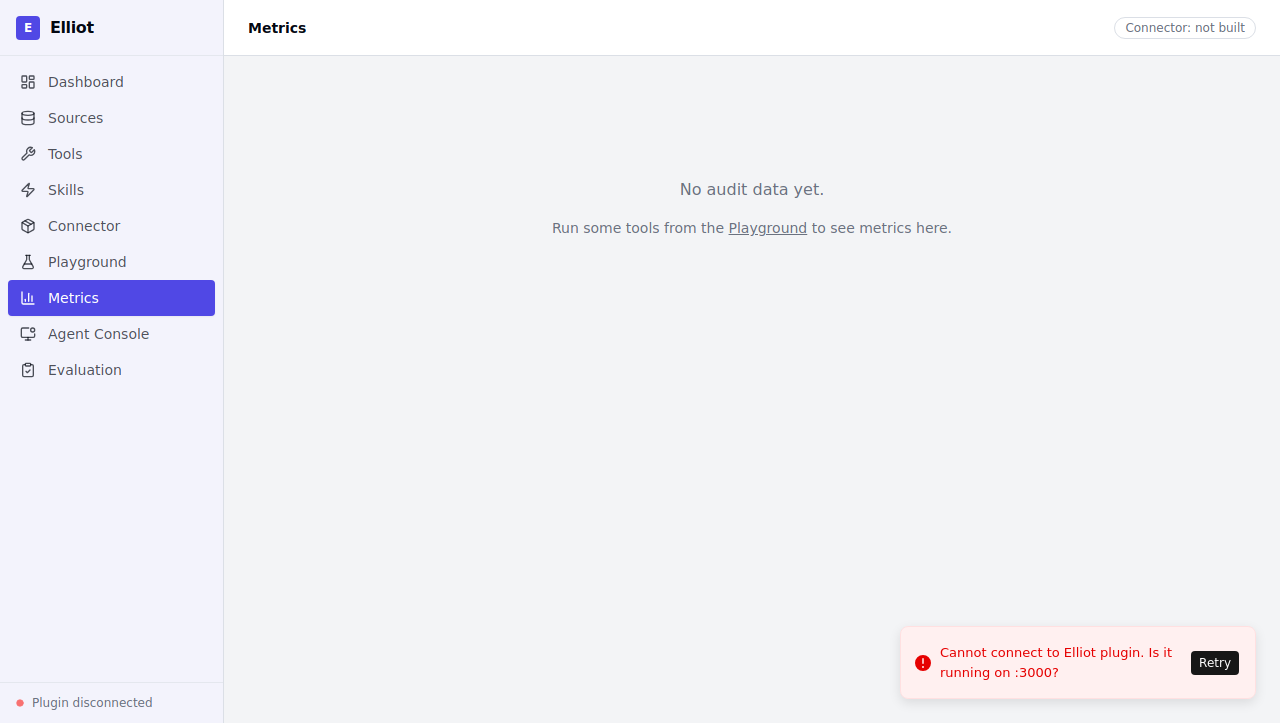
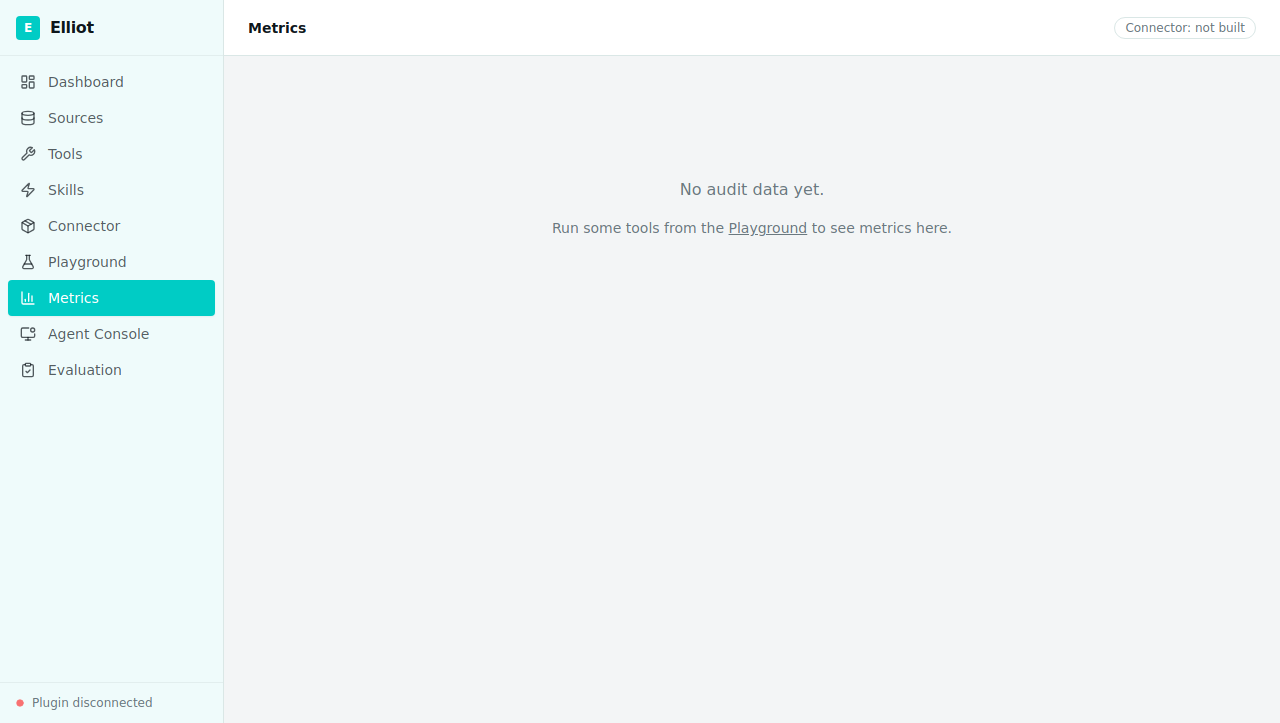
fix(studio): apply Elliot Teal brand color (#00cec8) and refresh screenshots
Replace indigo (243 75% 59%) with Elliot Teal (178 100% 40%) across all
CSS design tokens. Retake all 9 Studio screenshots to reflect the correct
brand color and current demo data state.

https://claude.ai/code/session_01Mtc241ya14kfZHy4ge2Dnv

Changed region(s): [[0.0, 0.3651, 0.1875, 0.4564], [0.7188, 0.8824, 0.9688, 0.9433], [0.0, 0.0, 0.0312, 0.0609]]

diff --git a/packages/studio/src/index.css b/packages/studio/src/index.css
@@ -5,40 +5,40 @@
 @layer base {
   :root {
     /* ── Elliot Design Tokens ─────────────────────────────────────────── */
-    /* Brand: Electric Indigo #4F46E5 */
+    /* Brand: Elliot Teal #00cec8 — HSL 178 100% 40% */
 
     --background: 0 0% 100%;
-    --foreground: 224 71% 4%;
+    --foreground: 200 30% 8%;
 
     --card: 0 0% 100%;
-    --card-foreground: 224 71% 4%;
+    --card-foreground: 200 30% 8%;
 
     --popover: 0 0% 100%;
-    --popover-foreground: 224 71% 4%;
+    --popover-foreground: 200 30% 8%;
 
-    /* Elliot Indigo — primary action color */
-    --primary: 243 75% 59%;
+    /* Elliot Teal — primary action color */
+    --primary: 178 100% 40%;
     --primary-foreground: 0 0% 100%;
 
-    /* Very light indigo tint — used for sidebar background */
-    --secondary: 243 60% 97%;
-    --secondary-foreground: 243 75% 35%;
+    /* Very light teal tint — used for sidebar background */
+    --secondary: 178 60% 96%;
+    --secondary-foreground: 178 100% 22%;
 
     /* Neutral gray — used for muted text and empty states */
-    --muted: 220 14% 96%;
-    --muted-foreground: 220 9% 46%;
+    --muted: 200 14% 96%;
+    --muted-foreground: 200 9% 46%;
 
-    /* Ultra-light indigo — used for hover states */
-    --accent: 243 100% 97%;
-    --accent-foreground: 243 75% 35%;
+    /* Ultra-light teal — used for hover states */
+    --accent: 178 80% 94%;
+    --accent-foreground: 178 100% 22%;
 
     --destructive: 0 84% 60%;
     --destructive-foreground: 0 0% 100%;
 
-    /* Slightly blue-tinted border — crisper than pure gray */
-    --border: 220 18% 88%;
-    --input: 220 18% 88%;
-    --ring: 243 75% 59%;
+    /* Teal-tinted border */
+    --border: 178 20% 88%;
+    --input: 178 20% 88%;
+    --ring: 178 100% 40%;
 
     /* Sharper radius for a technical, tool-like feel */
     --radius: 0.375rem;
